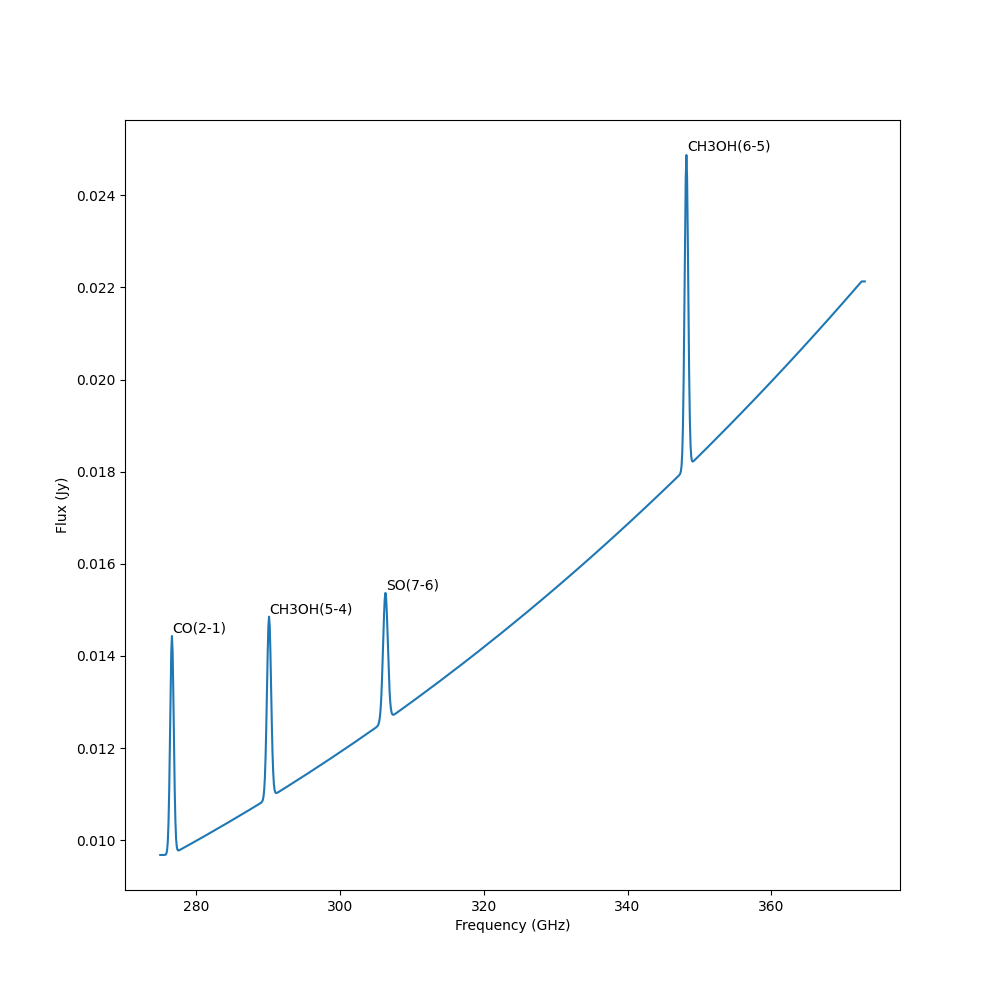
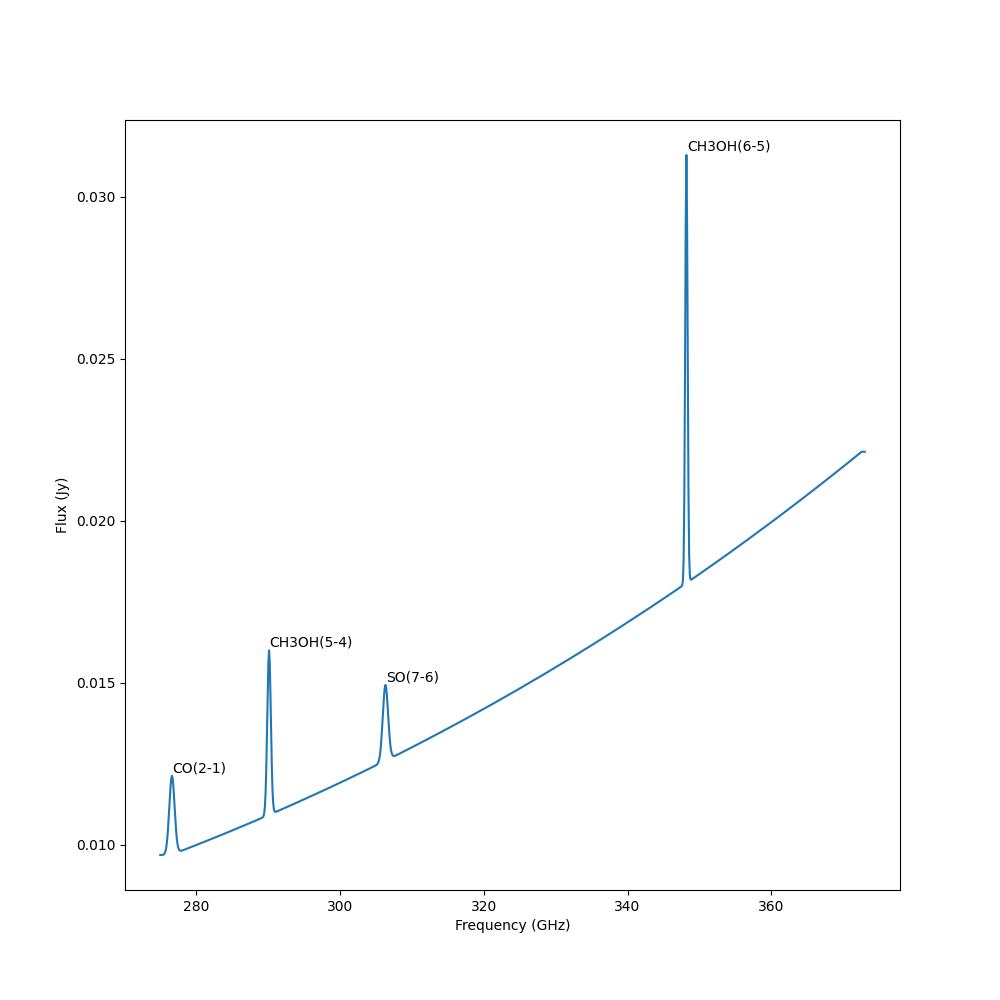
test: way out

diff --git a/experimental/sed-thinking.py b/experimental/sed-thinking.py
@@ -7,7 +7,7 @@ from astropy import units as U
 from scipy.constants import c
 import sys
 from math import pi
-
+from astropy.cosmology import FlatLambdaCDM 
 current_path = os.getcwd()
 parent_dir = os.path.join(current_path, "..")
 print("Current working directory:", current_path)
@@ -216,6 +216,7 @@ plt.ylabel('Flux (Jy)')
 plt.savefig('sed_plot.png')
 
 def luminosity_to_jy(velocity, data,  redshift=3):
+    
         """
         This function takes as input a pandas db containing luminosities in K km s-1 pc2, redshifts, and luminosity distances in Mpc, 
         and returns the brightness values in Jy.
@@ -229,16 +230,17 @@ def luminosity_to_jy(velocity, data,  redshift=3):
         sigma: numpy.ndarray: An array of brightness values in Jy.
 
         """
-        alpha = 3.255 * 10**7
+        alpha = 3.255 * 10**7 / 10**9
+        cosmo = FlatLambdaCDM(H0=70 * U.km / U.s / U.Mpc, Tcmb0=2.725 * U.K, Om0=0.3)
         # Intensity: 10^9 K km s−1 pc2
-        sigma = (data['Intensity'] * ( (1 + redshift) * data['Frequency'] **2)) / (alpha * velocity * (data['luminosity distance(Mpc)']**2))
+        sigma = (data['Intensity'] * ( (1 + redshift) * data['Frequency'] **2)) / (alpha * velocity * cosmo.luminosity_distance(redshift).value**2)
         return sigma
 
 new_lines = pd.read_csv(os.path.join(parent_dir,'brightnes','temporary.csv'))
-sigmas = luminosity_to_jy(400, new_lines, redshift=3)
+sigmas = luminosity_to_jy(400, new_lines, redshift=0.05)
 line_names = new_lines['Line'].values
 L_s = 5e13
 cs = sigmas / L_s
-for name, c in zip(line_name, cs):
+for name, c in zip(line_names, cs):
     print(name, c)
 

diff --git a/utility/astro.py b/utility/astro.py
@@ -886,24 +886,6 @@ def cont_finder(cont_frequencies,line_frequency):
     distances = np.abs(cont_frequencies - np.ones(len(cont_frequencies))*line_frequency)
     return np.argmin(distances)
 
-
-alma_bands = [get_band_range(i) for i in range(1, 11)]
-color_map = plt.colormaps.get_cmap('tab10')
-
-plt.figure(figsize=(10,10))
-plt.plot(sed_point['GHz'], sed_point['Jy'], label='Type2 AGN')
-plt.plot(sed_extended['GHz'], sed_extended['Jy'], label='SF-Galaxy')
-plt.xlabel('GHz')
-plt.ylabel('Jy')
-plt.title('SED')
-plt.xscale('log')
-plt.yscale('log')
-for i in range(len(alma_bands)):
-    color = color_map(i)
-    plt.axvspan(alma_bands[i][0], alma_bands[i][1], color=color, alpha=0.3, label=f'Band {i + 1}')
-plt.legend()
-plt.show()
-
 def cont_to_line(row):
     line_delta = np.random.normal(row['c'], row['err_c'])
     return line_delta
